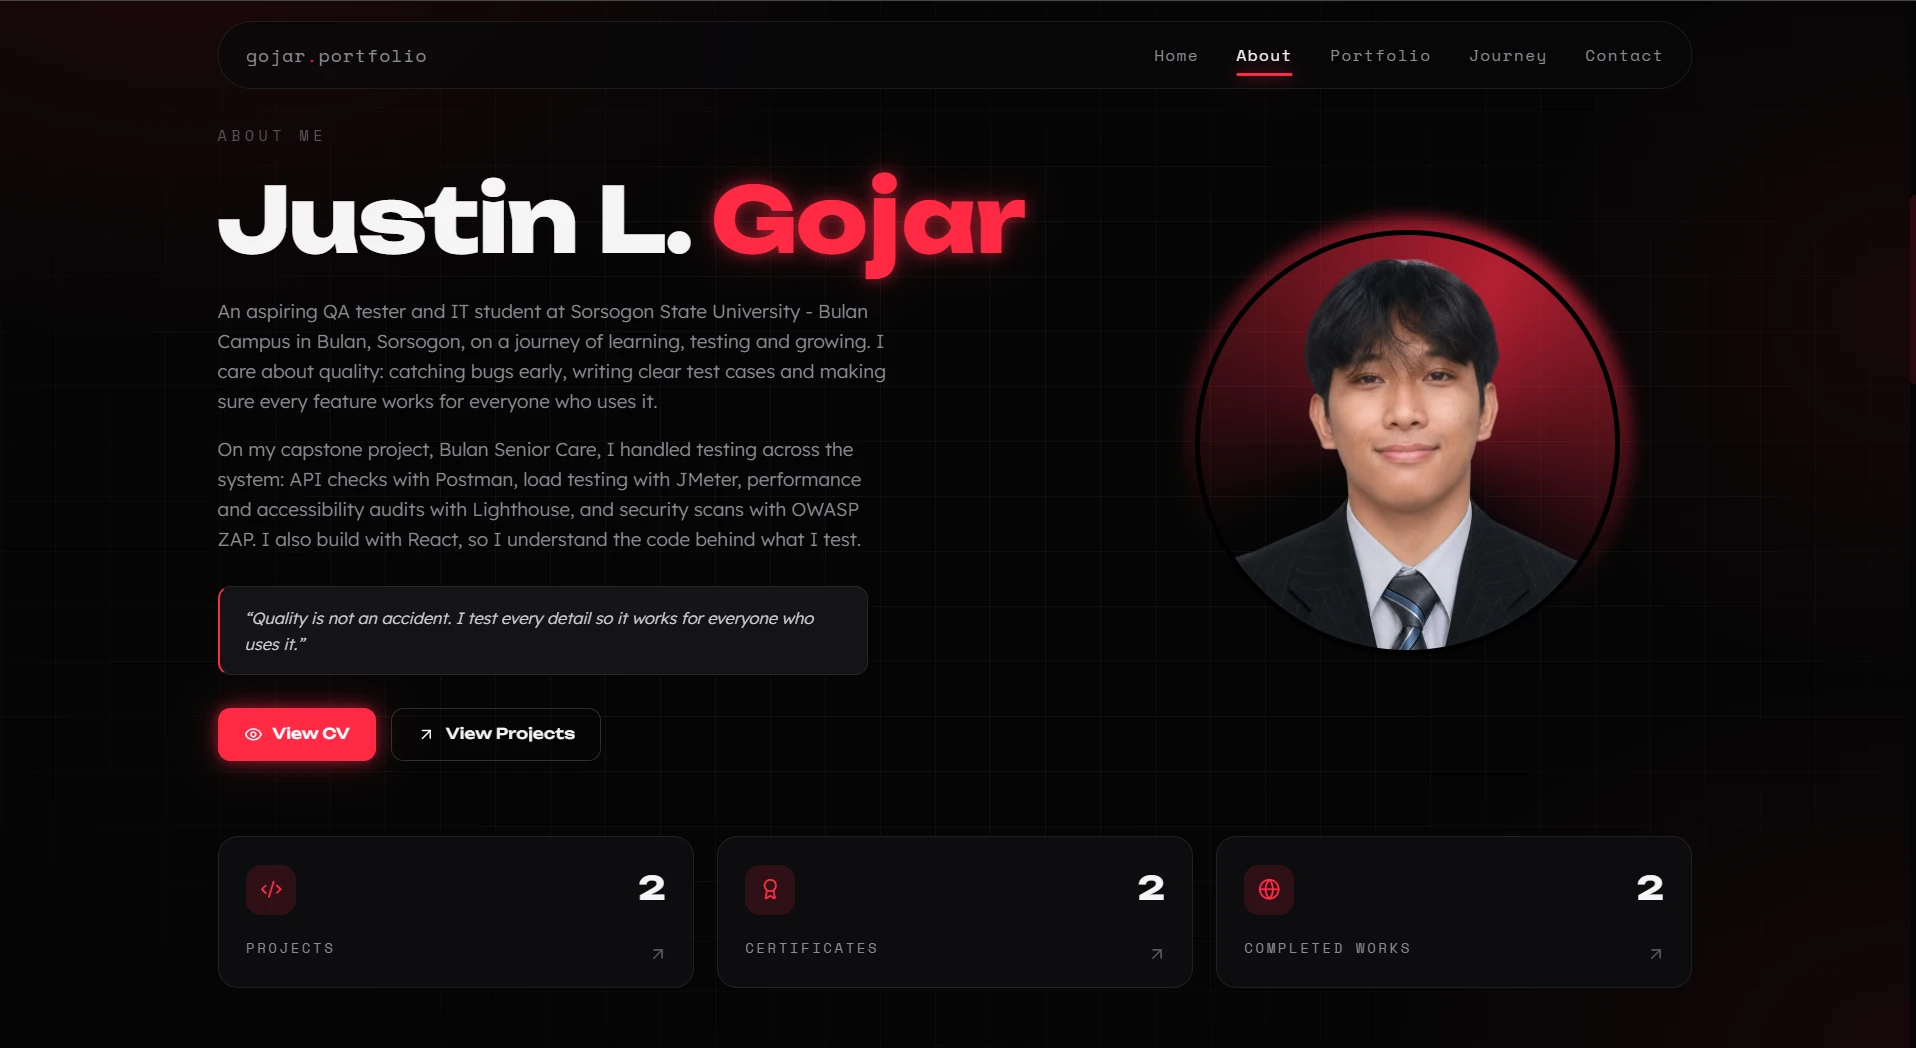
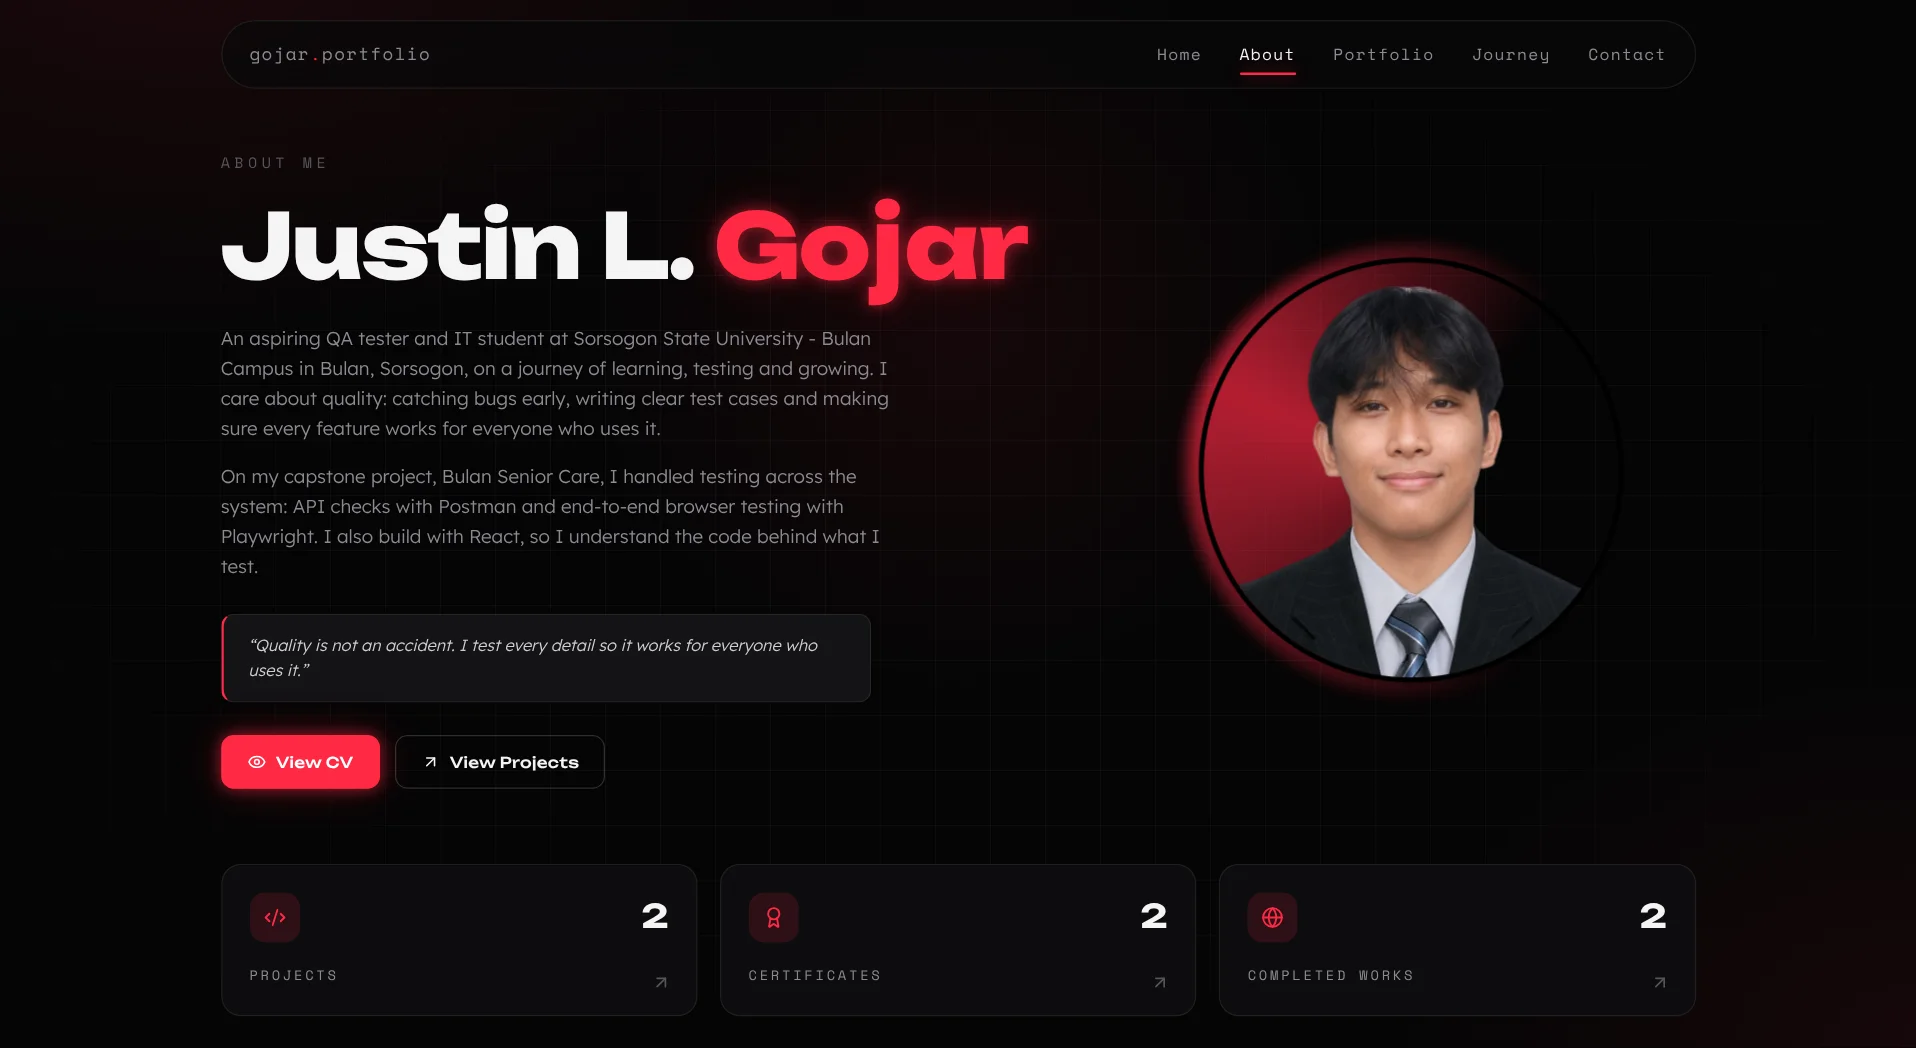
docs(readme): refresh preview image and project structure
Claude-Session: https://claude.ai/code/session_01FLTazZQM4T7tht3s6MoKqG

diff --git a/README.md b/README.md
@@ -78,15 +78,19 @@ A gender awareness and inclusion platform on gender-based violence and harassmen
 ## Project Structure
 
 ```
+├── docs/               README preview image
 ├── functions/api/      Cloudflare Pages Functions (messages, comments)
-├── public/             Static assets: avatar, project images, certificates, icons
+├── server/             Helpers shared by the functions (admin auth, JSON responses)
+├── public/             Static assets: avatar, project images, certificates, icons, service worker
 ├── src/
 │   ├── components/     React components (Hero, About, Portfolio, Journey, Contact, Admin…)
+│   │   └── TechIcon.jsx  Logos for the Tech Stack tab and social links
 │   ├── data.js         All site content: profile, projects, certificates, tech stack, socials
 │   ├── App.jsx
 │   └── styles.css      Theme colors as CSS variables (--red, --bg, …)
 ├── index.html
-└── vite.config.js
+├── vite.config.js
+└── wrangler.jsonc      Cloudflare deployment config
 ```
 
 ---
@@ -115,6 +119,7 @@ Everything shown on the site comes from **`src/data.js`**:
 - **Profile:** name, roles, about text, quote, CV link and email
 - **Projects:** add images to `public/projects/` and set each project's `image`, `live` and `repo`
 - **Certificates:** add scans to `public/certificates/` and list them in `certificates`
+- **Tech stack:** add an entry to `techStack`; its `icon` key must exist in `src/components/TechIcon.jsx`
 - **Socials:** update URLs and handles in `socials`
 - **Colors:** edit the CSS variables at the top of `src/styles.css`
 
